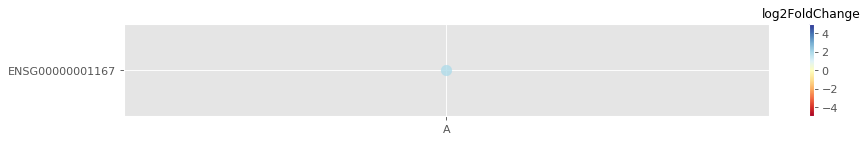
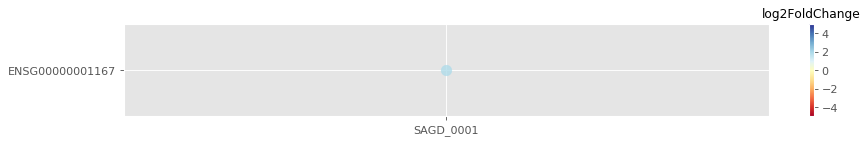
make the sagd id to link the new page

diff --git a/sadb/static/pages/sagd_id.html b/sadb/static/pages/sagd_id.html
@@ -1,0 +1,38 @@
+<div class="container">
+    <table class="table table-bordered table-hover table-condensed" ts-wrapper>
+        <thead>
+        <tr>
+            <th ts-criteria="SRP">SRP</th>
+            <th ts-criteria="SRS">SRS</th>
+            <th ts-criteria="SRX">SRX</th>
+            <th ts-criteria="SRR">SRR</th>
+            <th ts-criteria="FPKM MALE">FPKM(♂)</th>
+            <th ts-criteria="Specie">Species</th>
+            <th ts-criteria="sex">sex</th>
+            <th ts-criteria="tissue">tissue</th>
+            <th ts-criteria="stage" >stage</th>
+        </tr>
+        </thead>
+        <tbody>
+            <tr ng-repeat="item in items" ts-repeat>
+                 <td>
+                    <a href="#!/gene_info?gene={{ gene.gene_ID }}" target="_self" ng-click="gene_detail()">
+                        {{ gene.gene_ID }}
+                    </a>
+                </td>
+                <td>{{ gene.external_gene_name }}</td>
+                <td>{{ gene.gene.sagd_id }}</td>
+                <td>{{ gene.baseMean }}</td>
+                <td>{{ gene.FPKM_SRX_T }}</td>
+                <td>{{ gene.FPKM_SRX_O }}</td>
+                <td>{{ gene.chromosome_name }}</td>
+                <td>{{ gene.log2FoldChange }}</td>
+                <td>{{ gene.padj }}</td>
+            </tr>
+
+
+        </tbody>
+    </table>
+
+
+</div>

diff --git a/sadb/static/js/geneinfoController.js b/sadb/static/js/geneinfoController.js
@@ -32,6 +32,10 @@ function geneinfoController($scope,$http,$window,$routeParams,sadbService,$sce,$
                 $("#gene_detail_con").css('background-color','#fdeaee')
                 $("#gene_detail_con").css('background-color','#eaf9fd')
                 $('#footer').css('background-color','#eaf9fd')
+                $(function (){
+                    $("[data-toggle='popover']").popover();
+                });
+
             }
         )
         $http({
@@ -133,7 +137,6 @@ function geneinfoController($scope,$http,$window,$routeParams,sadbService,$sce,$
     $scope.goto = function (element) {
         $('html, body').animate({scrollTop:$(element).offset().top-51},100)
     }
-    $(function () { $(".popover a").popover({html : true });});
 
 
 }

diff --git a/sadb/static/js/sagdidController.js b/sadb/static/js/sagdidController.js
@@ -1,0 +1,19 @@
+angular.module('sadb')
+    .controller('sagdidController', sagdidController);
+
+function searchController($scope,$http,$routeParams,sadbService) {
+    $scope.get_sagd=function () {
+        $http({
+            url: base_url+'/api/sagd',
+            params: {gene_id:$routeParams.sagd_id},
+            method: 'GET'
+        }).then(
+            function (response) {
+                console.log(response);
+                $scope.gene_list_count = response.data.gene_list_count;
+                $scope.gene_list = response.data.gene_list;
+            }
+        )
+    }
+
+}

diff --git a/sadb/static/js/app.js b/sadb/static/js/app.js
@@ -23,6 +23,10 @@ angular.module('sadb',['ngRoute','bw.paging','tableSort','ui.select','ngSanitize
                 templateUrl:"/static/pages/gene_info.html",
                 controller: "geneinfoController"
             })
+            .when("/sagd_id",{
+                templateUrl:"/static/pages/sagd_id.html",
+                controller: "sagdidController"
+            })
             .when("/browse",{
                 templateUrl:"/static/pages/browse.html",
                 controller: "browseController"

diff --git a/sadb/static/pages/gene_info.html b/sadb/static/pages/gene_info.html
@@ -105,7 +105,7 @@
                     </thead>
                     <tbody>
                     <tr ng-repeat="gene in analysis" ts-repeat>
-                        <td><p><a>{{ gene.sagd_id }}</a></p></td>
+                        <td><a ng-href="#!/sagd_id?sagd_id={{ gene.sagd_id }}">{{ gene.sagd_id }}</a></td>
                         <td>{{ gene.baseMean }}</td>
                         <td>{{ gene.FPKM_SRX_T }}</td>
                         <td>{{ gene.FPKM_SRX_O }}</td>

diff --git a/sadb/ajax.py b/sadb/ajax.py
@@ -13,11 +13,11 @@ matplotlib.use('Agg')
 import matplotlib.pyplot as plt
 
 
-sagd_id_fields={
-    "SRP_id":fields.String,
-    "SRX_O":fields.List(fields.String),
-    "SRX_T":fields.List(fields.String)
-}
+# sagd_id_fields={
+#     "SRP_id":fields.String,
+#     "SRX_O":fields.List(fields.String),
+#     "SRX_T":fields.List(fields.String)
+# }
 
 gene_list_fields={
     'gene_ID':fields.String,
@@ -412,9 +412,10 @@ get_result_fields={
     "pvalue": fields.String,
     "sagd_id": fields.String,
     "FPKM_SRX_O":fields.String,
-    "FPKM_SRX_T":fields.String,
-    "SRA":sagd_id_fields
+    "FPKM_SRX_T":fields.String
+
 }
+# "SRA":sagd_id_fields
 get_analysis_fields={
     'analysis': fields.List(fields.Nested(get_result_fields)),
     'taxname': fields.String
